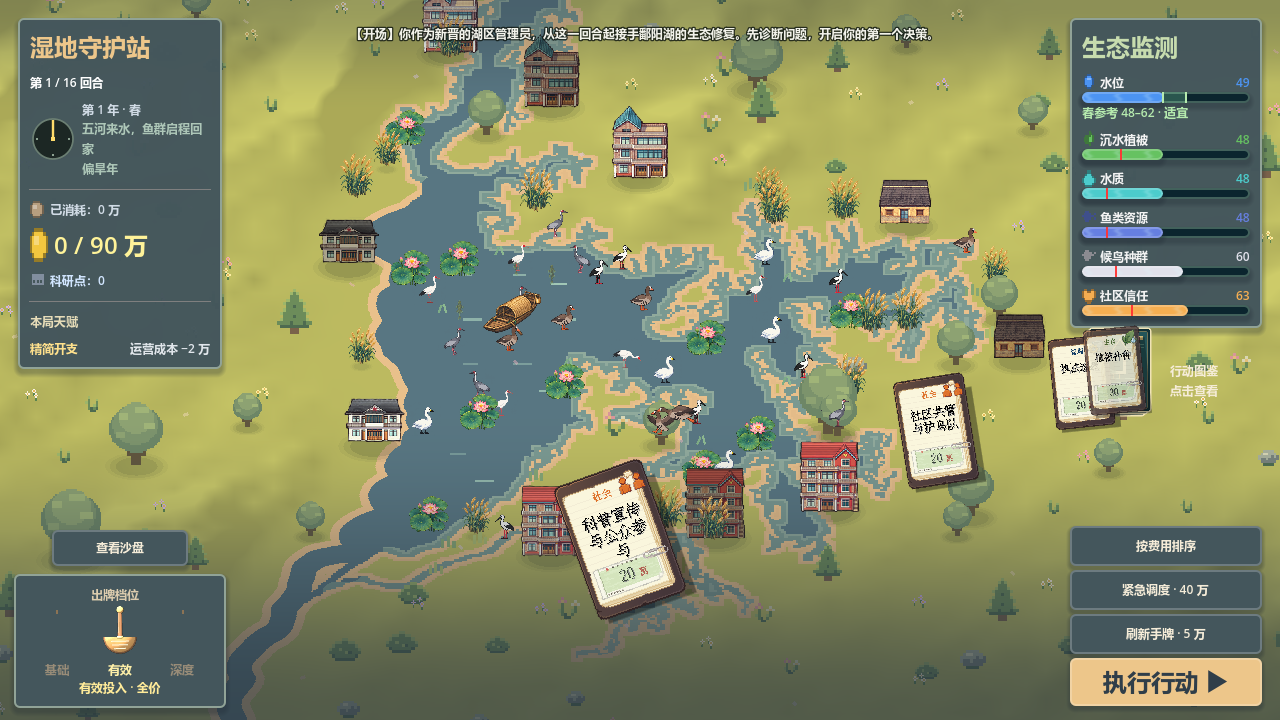
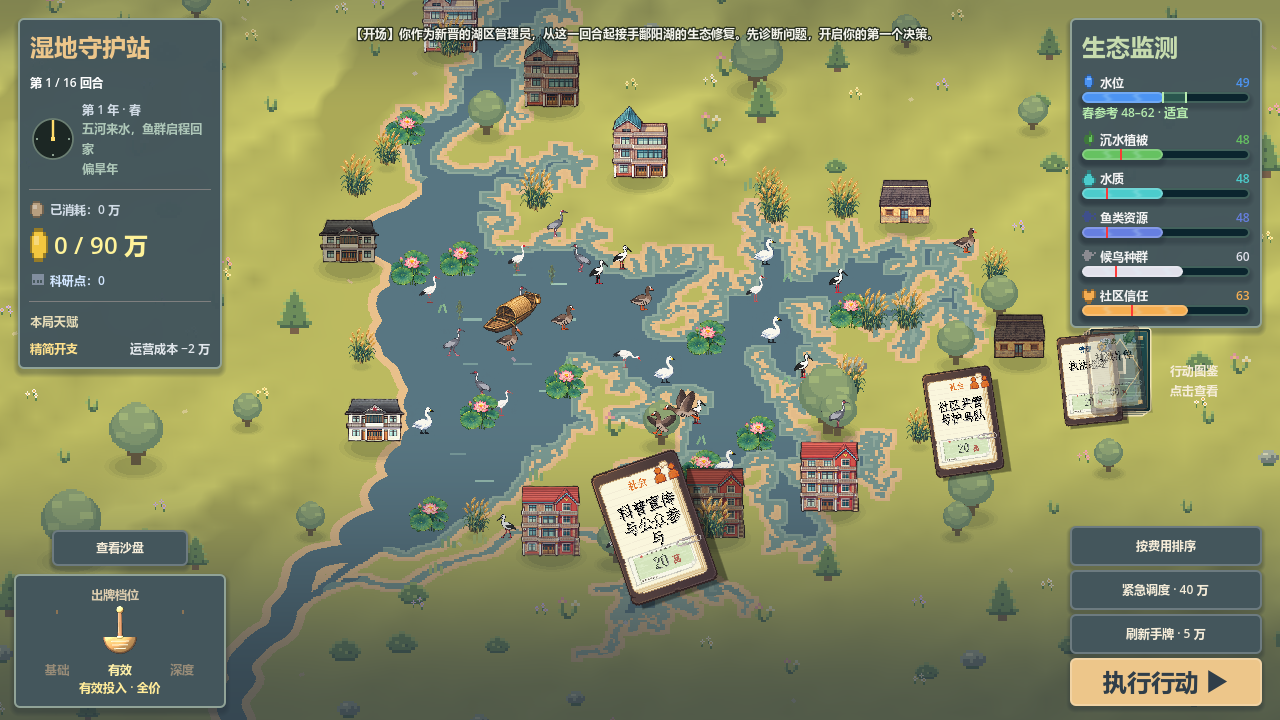
fix: collect the old hand before dealing refresh cards

Changed region(s): [[0.6875, 0.4278, 0.9062, 0.7028], [0.4375, 0.55, 0.5625, 0.8861]]

diff --git a/docs/BALATRO_CARD_EFFECTS.md b/docs/BALATRO_CARD_EFFECTS.md
@@ -38,9 +38,11 @@
 新牌初始尺寸为手牌的 52%，沿飞行逐渐变成正常尺寸，同时转到对应扇形角度。
 起飞间隔 0.06 秒，单张飞行 0.36 秒，七张牌约 0.72 秒完成。
 开局、新回合、刷新使用相同动画；已经摆在桌上的牌不参与刷新发牌。
+刷新前先将未打出的旧牌收回右侧牌堆（每张 0.24 秒、错开 0.016 秒），全部收回后才抽取并发出新牌。
+收牌期间阻止重复刷新、拖牌、排序和结算；返回菜单或开启新局会作废旧的刷新协程。
 容器重复布局不会把正在飞行的牌拉回手里；缩放后以最新扇形位置落定。
 发牌途中结算会终止发牌动画并交给结算接管；减少动效模式立即显示完整手牌。
 参考 `scenes/balatro/scripts/drawn_cards.gd` 的共同牌堆起点和扇形展开机制。
 
-`tests/card_deal.tscn` 的 62 项检查通过：来源位置、发牌顺序、错开节奏、重复布局、落点、刷新保留桌面牌、小窗口、减少动效和立即结束回合。
+`tests/card_deal.tscn` 的 68 项检查通过：来源位置、发牌顺序、错开节奏、重复布局、落点、刷新先收后发且只扣一次费用、保留桌面牌、小窗口、减少动效和立即结束回合。
 截图位于 `docs/screenshots/card-deal`。
